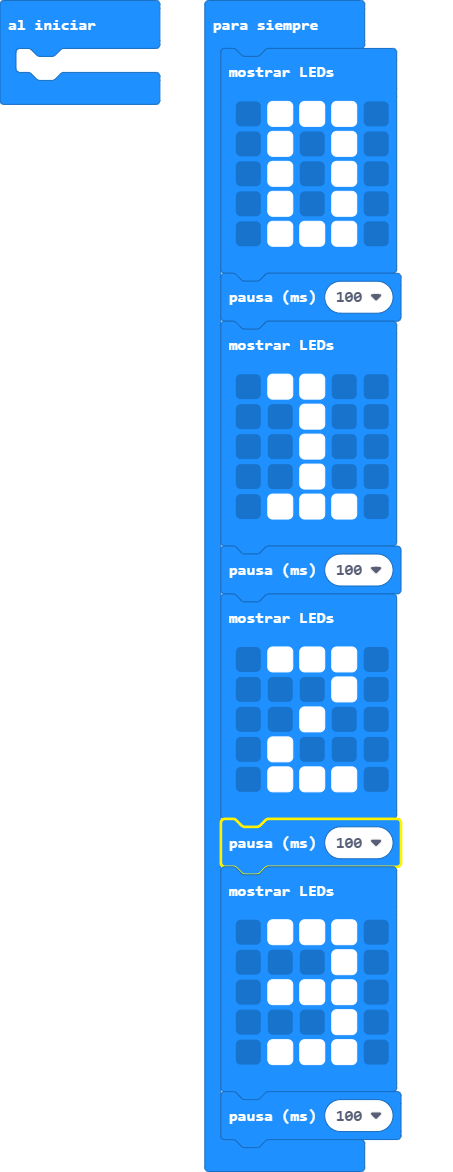
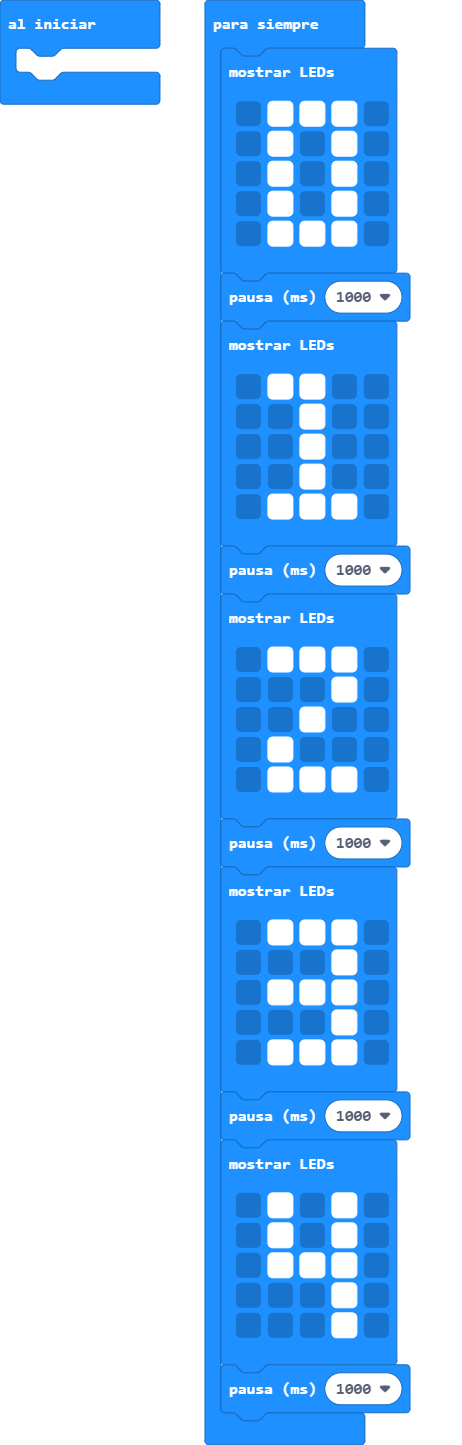
Actualizar main.blocks, main.ts

Changed region(s): [[0.4327, 0.0, 0.8962, 1.0], [0.0, 0.0, 0.3709, 0.0922]]

diff --git a/main.ts b/main.ts
@@ -6,7 +6,7 @@ basic.forever(function () {
         . # . # .
         . # # # .
         `)
-    basic.pause(100)
+    basic.pause(1000)
     basic.showLeds(`
         . # # . .
         . . # . .
@@ -14,7 +14,7 @@ basic.forever(function () {
         . . # . .
         . # # # .
         `)
-    basic.pause(100)
+    basic.pause(1000)
     basic.showLeds(`
         . # # # .
         . . . # .
@@ -22,7 +22,7 @@ basic.forever(function () {
         . # . . .
         . # # # .
         `)
-    basic.pause(100)
+    basic.pause(1000)
     basic.showLeds(`
         . # # # .
         . . . # .
@@ -30,5 +30,13 @@ basic.forever(function () {
         . . . # .
         . # # # .
         `)
-    basic.pause(100)
+    basic.pause(1000)
+    basic.showLeds(`
+        . # . # .
+        . # . # .
+        . # # # .
+        . . . # .
+        . . . # .
+        `)
+    basic.pause(1000)
 })
